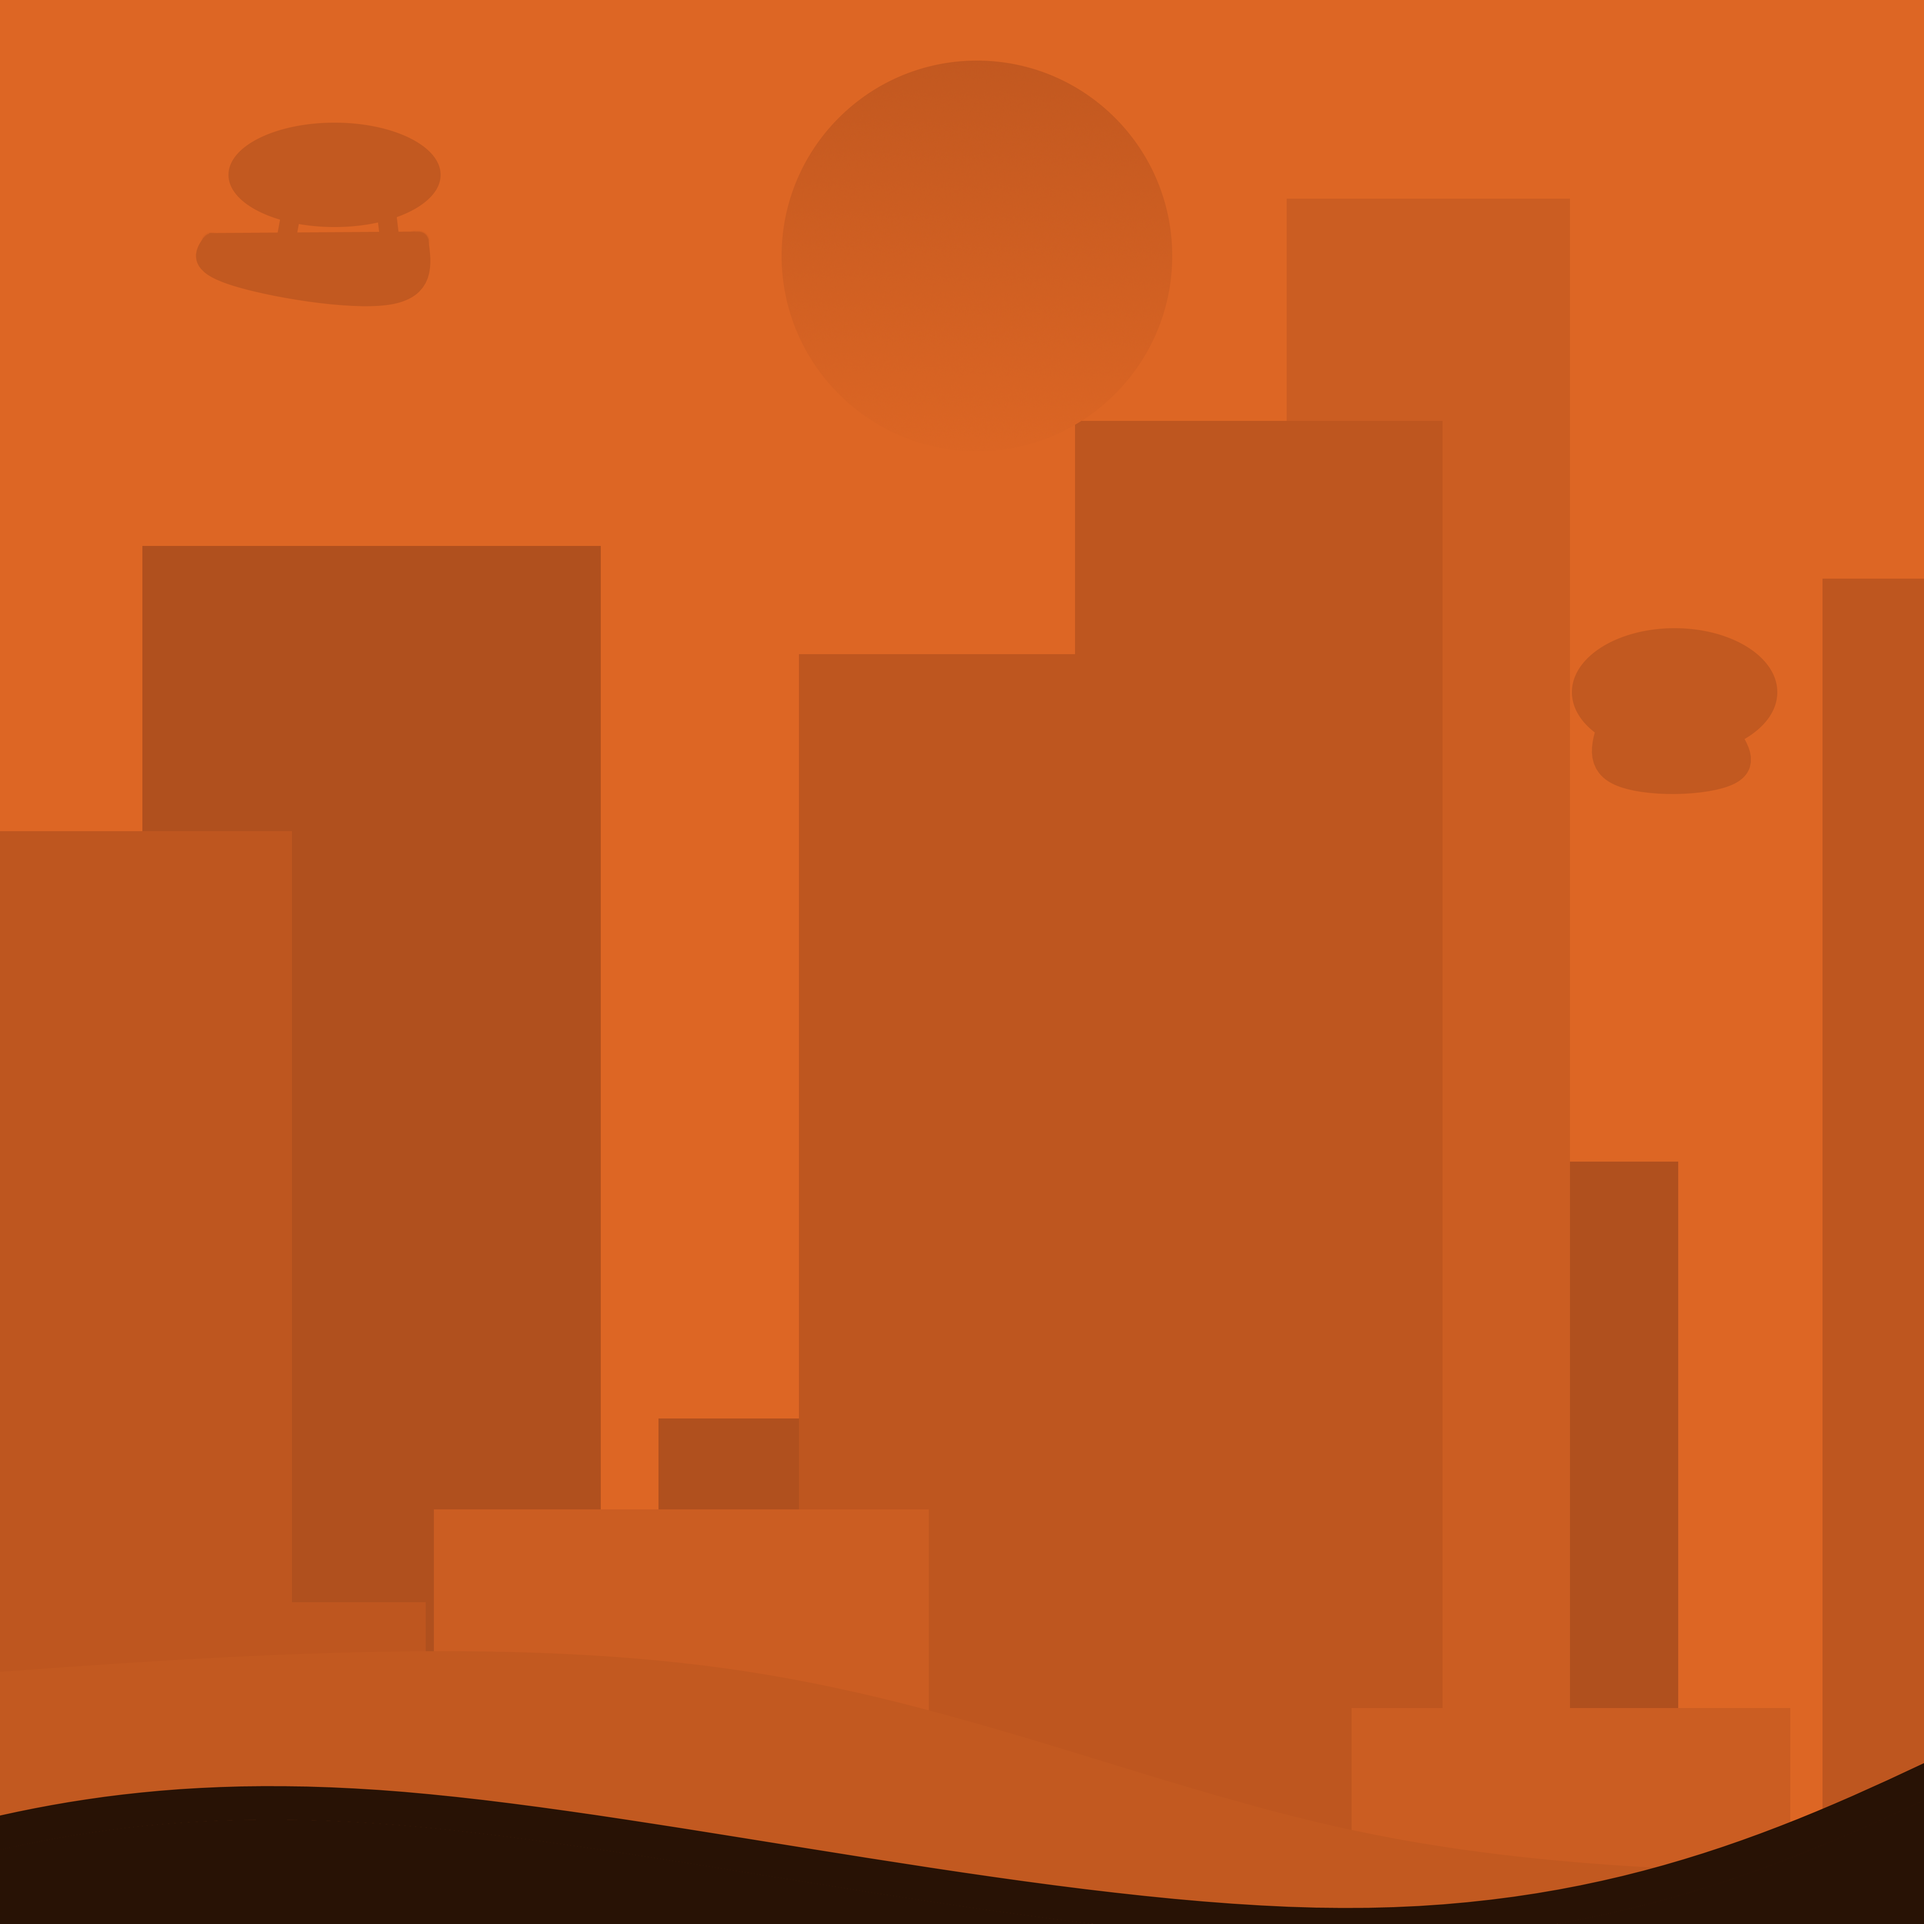
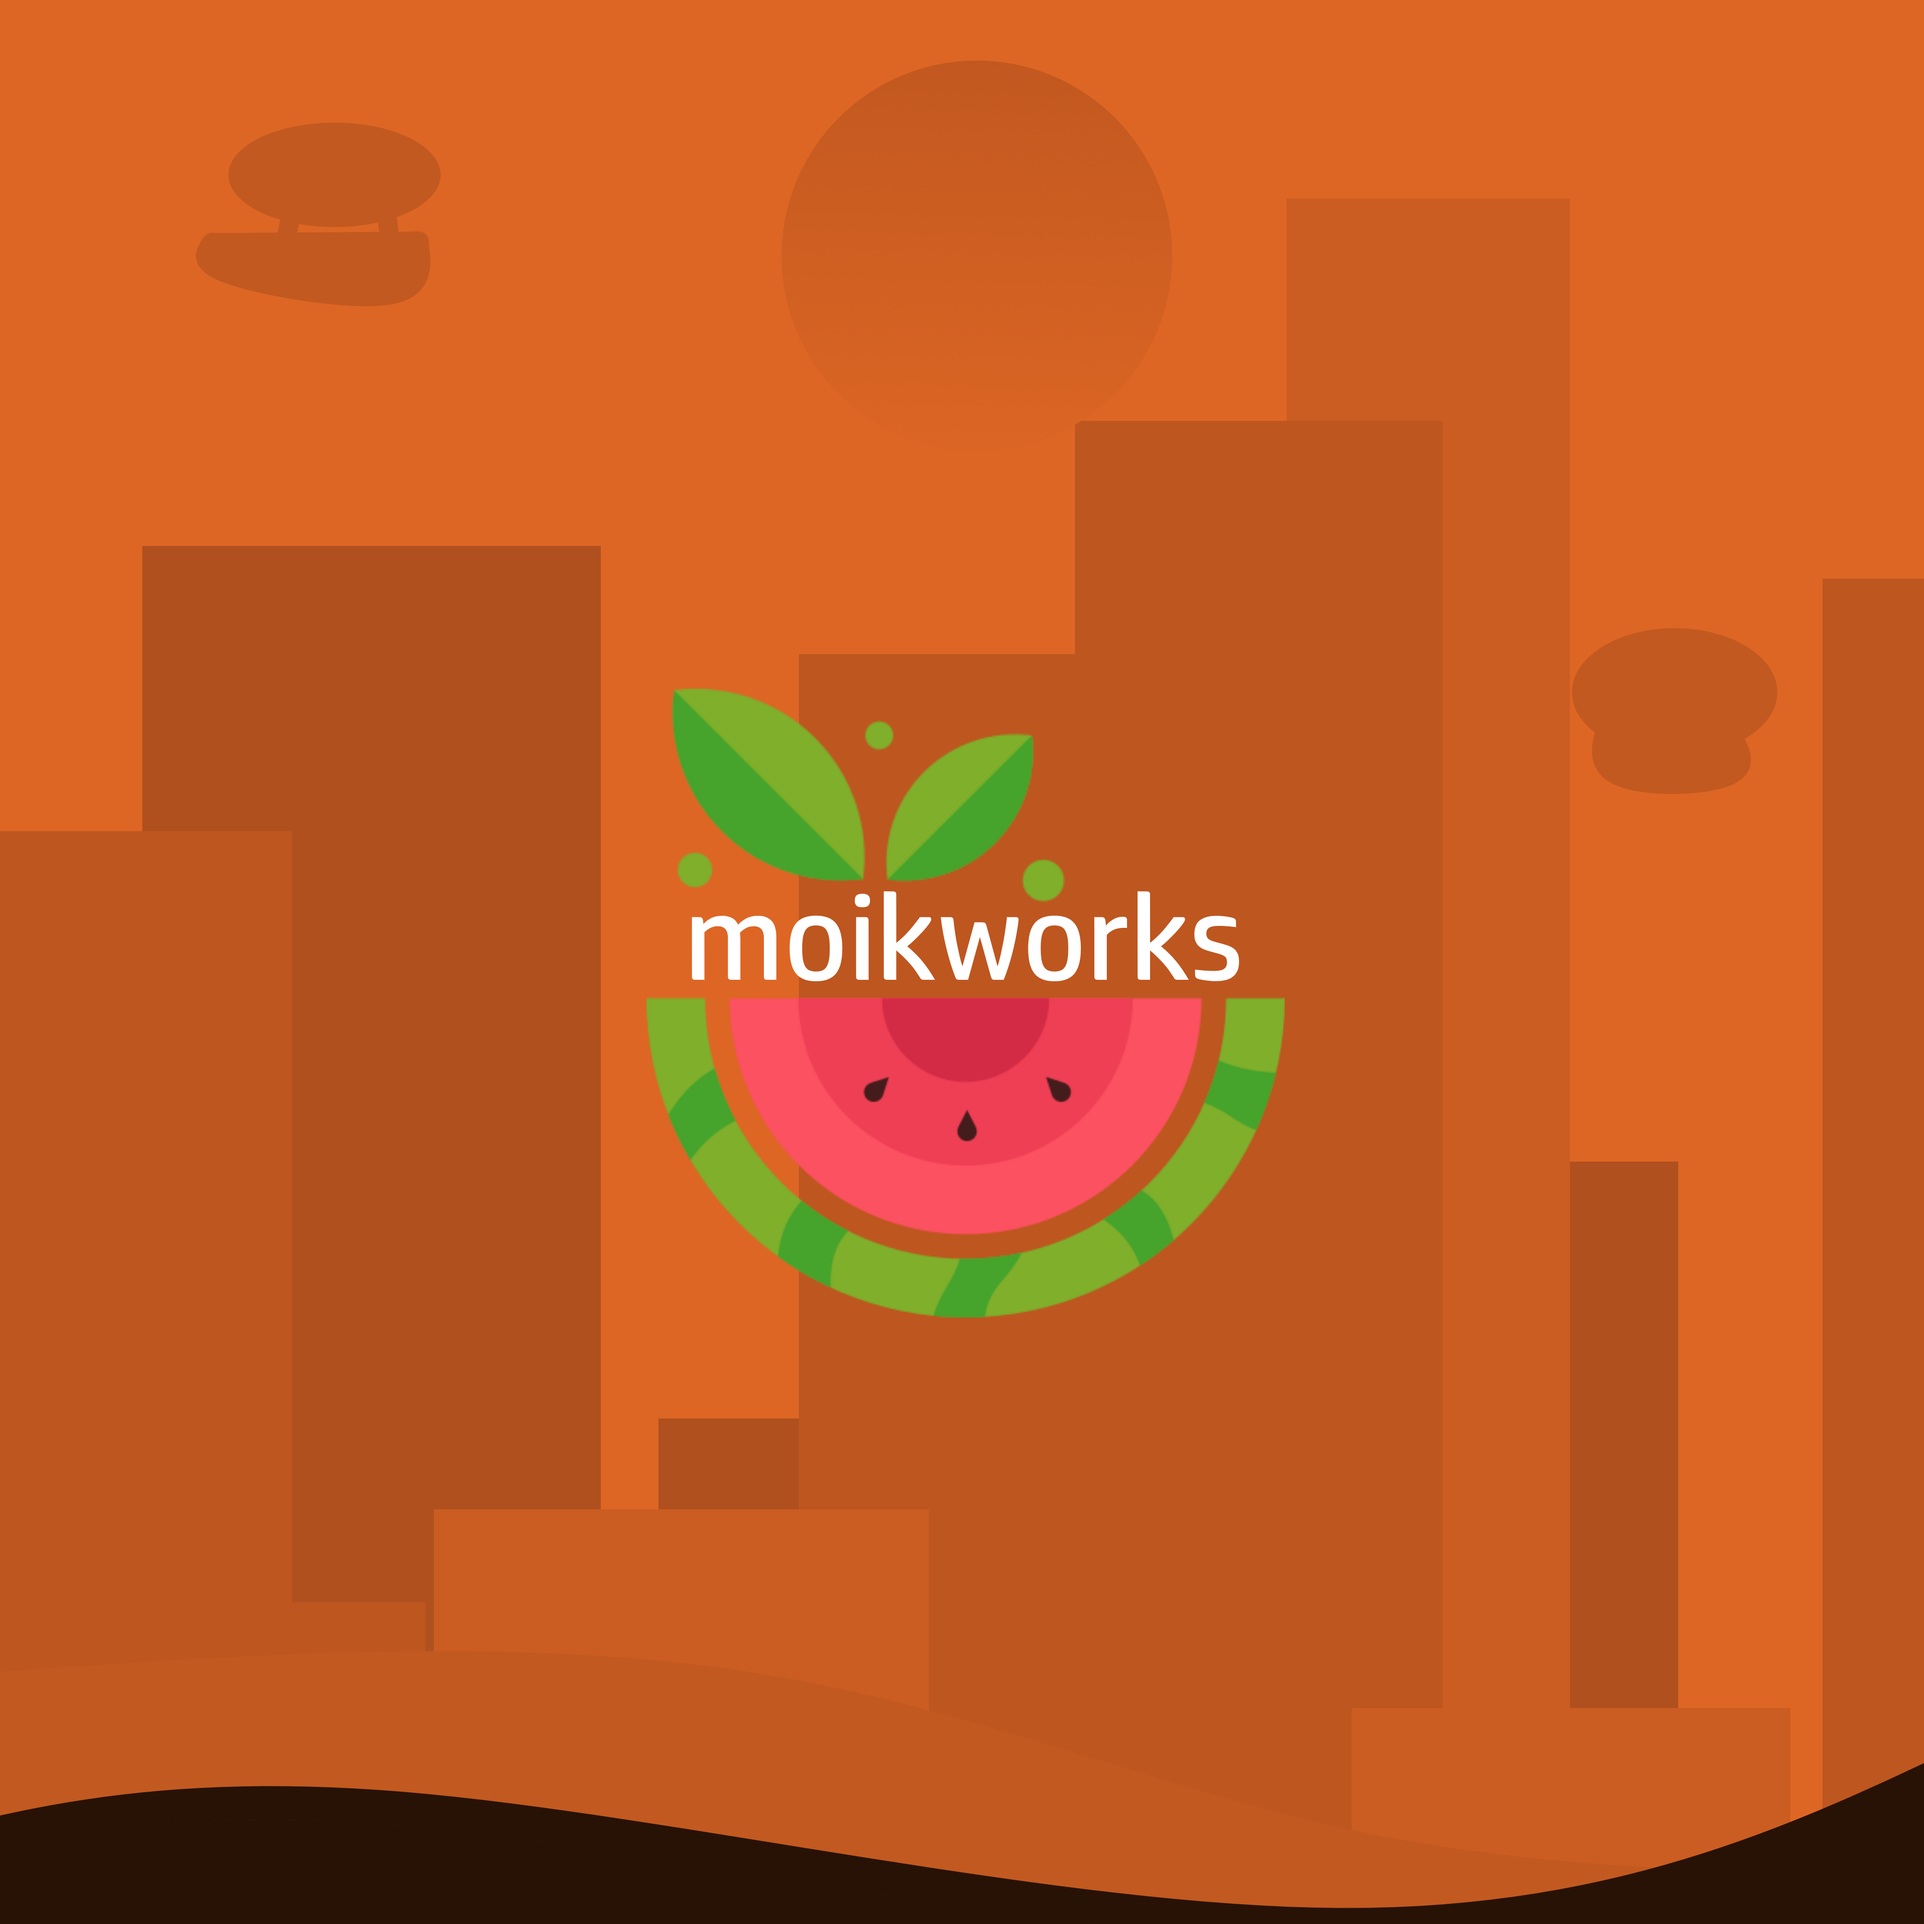
tweaks

Changed region(s): [[0.3125, 0.3438, 0.6875, 0.6875]]

diff --git a/about/index.html b/about/index.html
@@ -23,6 +23,7 @@
     </header>
 
     <section class="alt-section" id="splash">
+        <img class="leaves" alt="leaves" src="../logo/leaves.png" />
         <h1 id="about-us">about us</h1>
         <div class="content">
             <h2 id="profile-name">moikworks</h2>
@@ -45,6 +46,7 @@
             <img class="profile-image" alt="unknown" src="../games/unknown.png" />
             <p id="profile-text">this could be you! if you're interested in joining the team, or adding your game to the moikworks roster, reach out to <a href="mailto:moikworks@gmail.com" target="_blank" id="underline">moikworks@gmail.com</a> today!</p>
         </div>
+        <img class="melon" alt="melon" src="../logo/melon-only.png" />
     </section>
 
     <footer class="universal-footer">

diff --git a/about/index.css b/about/index.css
@@ -29,6 +29,8 @@ section {
   padding: 50px 20px;
   align-items: center;
   background-color: #1a1a1a;
+  display: flex;
+  flex-direction: column;
 }
 
 .alt-section {

diff --git a/universal.css b/universal.css
@@ -187,6 +187,7 @@ a:hover {
 
 .leaves {
     width: 100px;
+    align-self: center;
 }
 
 .melon {
